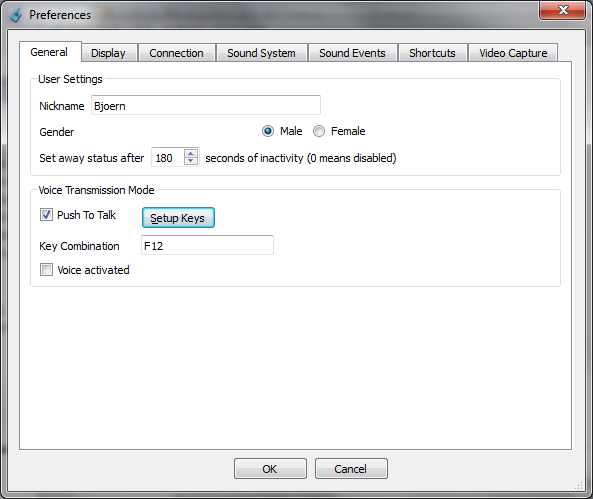
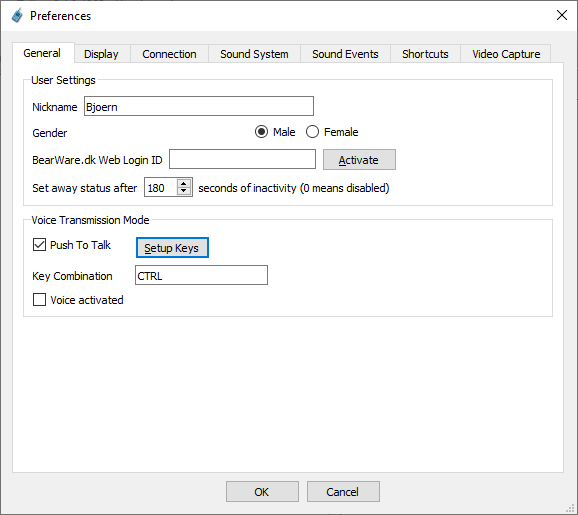
Explained BearWare.dk weblogin

Changed region(s): [[0.0, 0.0, 1.0, 1.0]]

diff --git a/Documentation/TeamTalk/userinterface.md b/Documentation/TeamTalk/userinterface.md
@@ -295,13 +295,33 @@ green.
 If you manually want to connect to a TeamTalk server then the person
 who is running the server must provide the information for the fields
 Host IP-address, TCP port and UDP port along with a user account
-containing both username and password.
+containing both username and password. If the server is hosted on an
+encrypted connection then the *Encrypted server* option must be
+checked.
 
-If the username to log on to the server is "facebook" then a dialog
-will pop up asking you to log into Facebook. For more information on
-Facebook login read section @ref fbuseraccount. If at some point you
-want to log into a different Facebook account then hit Escape when the
-Facebook login dialog appears.
+### Authentication
+
+Most TeamTalk server owners set up their own usernames and passwords
+for users. Some TeamTalk server also support publicly available login
+systems provided by BearWare.dk and Facebook.
+
+- BearWare.dk Web Login
+  - If the username to log on to a server is "bearware" then you must
+    register a username on BearWare.dk and use this to log on to the
+    server.
+
+- Facebook Login
+  - If the username to log on to the server is "facebook" then a
+    dialog will pop up asking you to log into Facebook. For more
+    information on Facebook login read section @ref fbuseraccount. If
+    at some point you want to log into a different Facebook account
+    then hit Escape when the Facebook login dialog appears.
+
+Learn more about setting up user accounts by read the section on
+[configuring TeamTalk servers](@ref teamtalkserver) or the section
+about [User Accounts](@ref useraccountsdlg).
+
+### Join or create specific channel
 
 To join a specific channel once you have logged on to the server can
 be done by filling out Channel and Password fields. Once you have
@@ -310,9 +330,7 @@ server to the Server List by filling the Entry name field and
 afterwards click **Save**. Finally click **Connect** to connect to the
 server.
 
-Learn more about setting up user accounts by read the section on
-[configuring TeamTalk servers](@ref teamtalkserver) or the section
-about [User Accounts](@ref useraccountsdlg).
+### Generate .tt File
 
 If you want others to connect to the same TeamTalk server as you, you
 can press **Generate .tt File** so you'll generate a file you can email to

diff --git a/Documentation/TeamTalk/preferences.md b/Documentation/TeamTalk/preferences.md
@@ -28,7 +28,13 @@ transmit audio.
 - **Gender**
   - This option selects whether other users should see you as a Male
     or Female.
-  
+
+- **BearWare.dk Web Login ID**
+  - A BearWare.dk web login is required if a TeamTalk server specifies
+    that you must [log on with the username "bearware"](@ref
+    connectdlg). You can create a BearWare.dk web login by clicking
+    the *Activate* button.
+
 - **Set away status after...**
   - If non-zero this option will automatically set you as away after
     the specified number of seconds.
